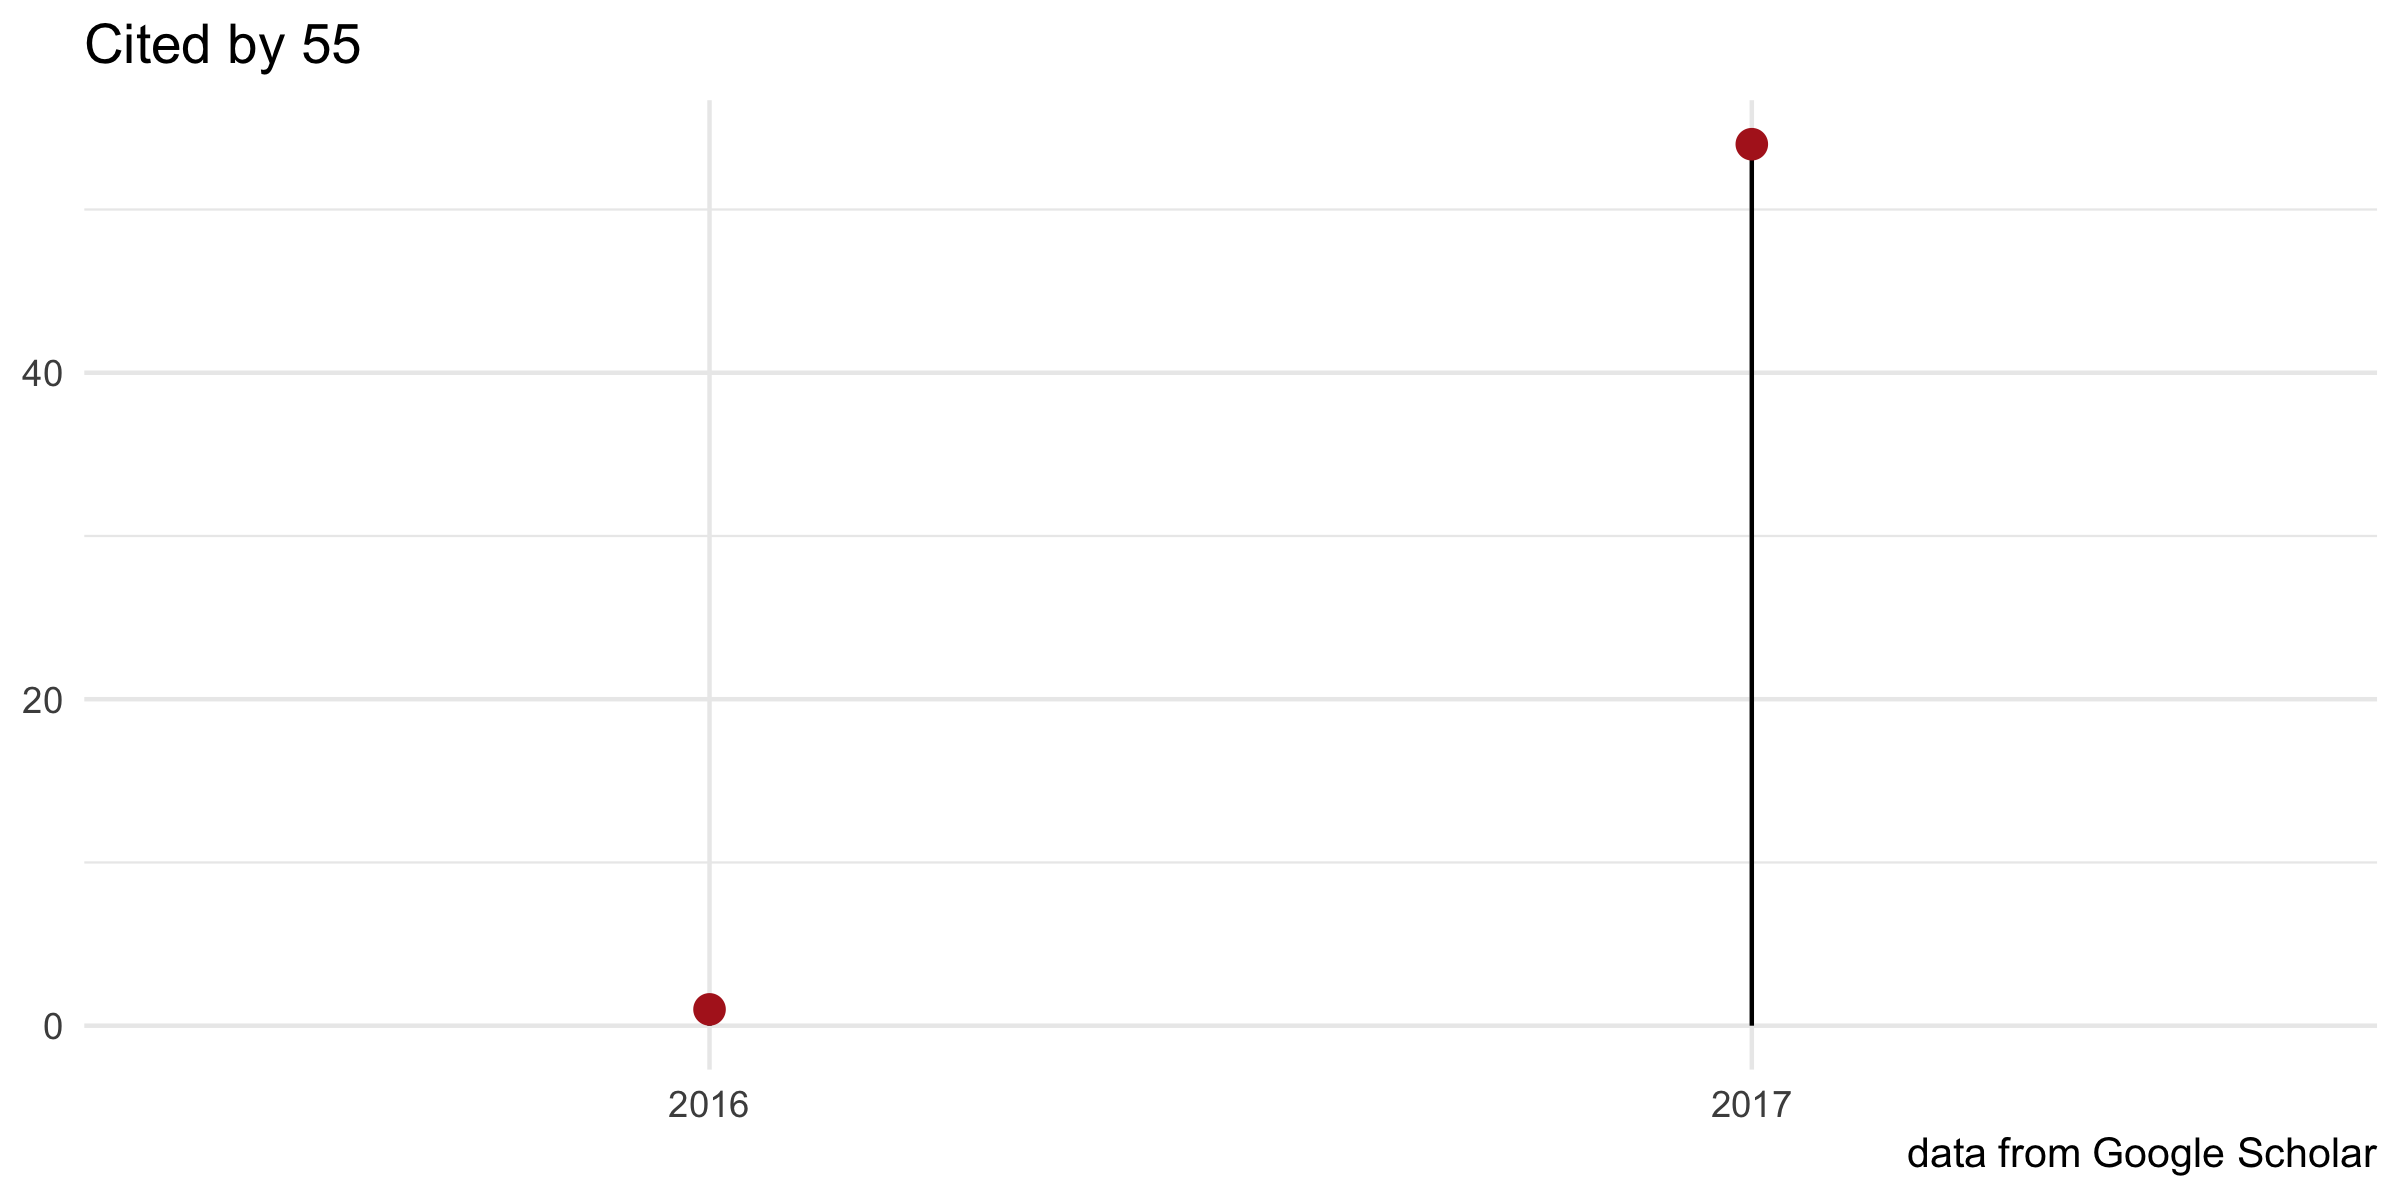
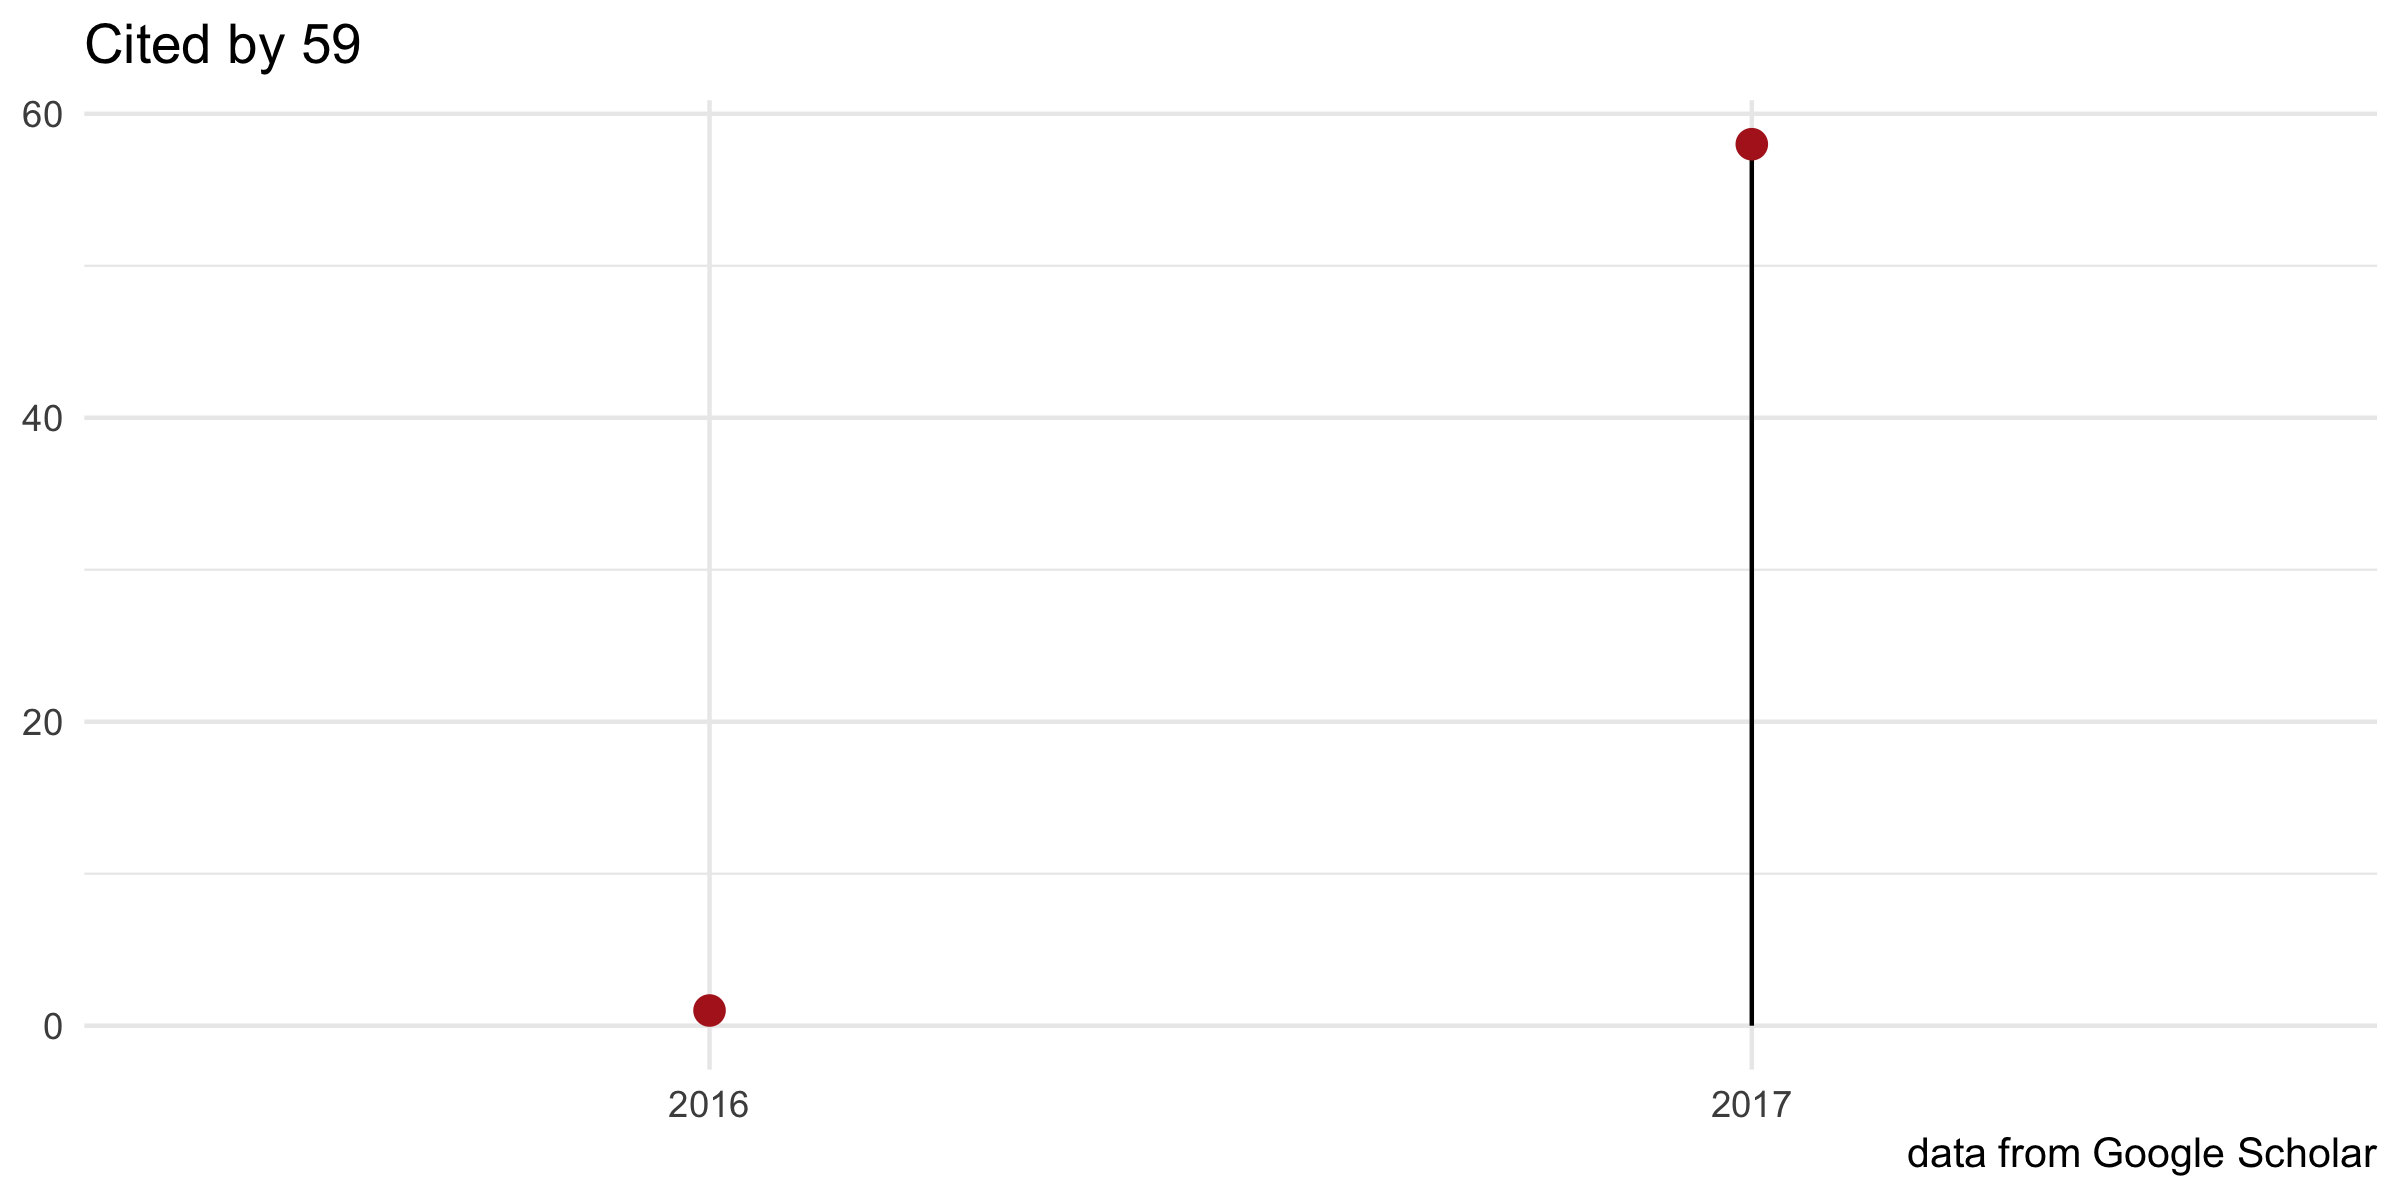
update vignette

diff --git a/README.md b/README.md
@@ -4,9 +4,9 @@ ggtree: an R package for visualization and annotation of phylogenetic trees with
 
 <img src="https://raw.githubusercontent.com/Bioconductor/BiocStickers/master/ggtree/ggtree.png" height="200" align="right" />
 
-[![releaseVersion](https://img.shields.io/badge/release%20version-1.10.0-green.svg?style=flat)](https://bioconductor.org/packages/ggtree) [![develVersion](https://img.shields.io/badge/devel%20version-1.11.3-green.svg?style=flat)](https://github.com/guangchuangyu/ggtree) [![Bioc](http://www.bioconductor.org/shields/years-in-bioc/ggtree.svg)](https://www.bioconductor.org/packages/devel/bioc/html/ggtree.html#since) [![total](https://img.shields.io/badge/downloads-22348/total-blue.svg?style=flat)](https://bioconductor.org/packages/stats/bioc/ggtree) [![month](https://img.shields.io/badge/downloads-1218/month-blue.svg?style=flat)](https://bioconductor.org/packages/stats/bioc/ggtree)
+[![releaseVersion](https://img.shields.io/badge/release%20version-1.10.0-green.svg?style=flat)](https://bioconductor.org/packages/ggtree) [![develVersion](https://img.shields.io/badge/devel%20version-1.11.3-green.svg?style=flat)](https://github.com/guangchuangyu/ggtree) [![Bioc](http://www.bioconductor.org/shields/years-in-bioc/ggtree.svg)](https://www.bioconductor.org/packages/devel/bioc/html/ggtree.html#since) [![total](https://img.shields.io/badge/downloads-22621/total-blue.svg?style=flat)](https://bioconductor.org/packages/stats/bioc/ggtree) [![month](https://img.shields.io/badge/downloads-1218/month-blue.svg?style=flat)](https://bioconductor.org/packages/stats/bioc/ggtree)
 
-[![Project Status: Active - The project has reached a stable, usable state and is being actively developed.](http://www.repostatus.org/badges/latest/active.svg)](http://www.repostatus.org/#active) [![codecov](https://codecov.io/gh/GuangchuangYu/ggtree/branch/master/graph/badge.svg)](https://codecov.io/gh/GuangchuangYu/ggtree) [![Last-changedate](https://img.shields.io/badge/last%20change-2017--12--15-green.svg)](https://github.com/GuangchuangYu/ggtree/commits/master) [![GitHub forks](https://img.shields.io/github/forks/GuangchuangYu/ggtree.svg)](https://github.com/GuangchuangYu/ggtree/network) [![GitHub stars](https://img.shields.io/github/stars/GuangchuangYu/ggtree.svg)](https://github.com/GuangchuangYu/ggtree/stargazers) [![Awesome](https://cdn.rawgit.com/sindresorhus/awesome/d7305f38d29fed78fa85652e3a63e154dd8e8829/media/badge.svg)](https://awesome-r.com/#awesome-r-graphic-displays)
+[![Project Status: Active - The project has reached a stable, usable state and is being actively developed.](http://www.repostatus.org/badges/latest/active.svg)](http://www.repostatus.org/#active) [![codecov](https://codecov.io/gh/GuangchuangYu/ggtree/branch/master/graph/badge.svg)](https://codecov.io/gh/GuangchuangYu/ggtree) [![Last-changedate](https://img.shields.io/badge/last%20change-2017--12--21-green.svg)](https://github.com/GuangchuangYu/ggtree/commits/master) [![GitHub forks](https://img.shields.io/github/forks/GuangchuangYu/ggtree.svg)](https://github.com/GuangchuangYu/ggtree/network) [![GitHub stars](https://img.shields.io/github/stars/GuangchuangYu/ggtree.svg)](https://github.com/GuangchuangYu/ggtree/stargazers) [![Awesome](https://cdn.rawgit.com/sindresorhus/awesome/d7305f38d29fed78fa85652e3a63e154dd8e8829/media/badge.svg)](https://awesome-r.com/#awesome-r-graphic-displays)
 
 [![platform](http://www.bioconductor.org/shields/availability/devel/ggtree.svg)](https://www.bioconductor.org/packages/devel/bioc/html/ggtree.html#archives) [![Build Status](http://www.bioconductor.org/shields/build/devel/bioc/ggtree.svg)](https://bioconductor.org/checkResults/devel/bioc-LATEST/ggtree/) [![Linux/Mac Travis Build Status](https://img.shields.io/travis/GuangchuangYu/ggtree/master.svg?label=Mac%20OSX%20%26%20Linux)](https://travis-ci.org/GuangchuangYu/ggtree) [![AppVeyor Build Status](https://img.shields.io/appveyor/ci/Guangchuangyu/ggtree/master.svg?label=Windows)](https://ci.appveyor.com/project/GuangchuangYu/ggtree) [![Backers on Open Collective](https://opencollective.com/ggtree/backers/badge.svg)](#backers) [![Sponsors on Open Collective](https://opencollective.com/ggtree/sponsors/badge.svg)](#sponsors)
 
@@ -27,7 +27,7 @@ Please cite the following article when using `ggtree`:
 
 **G Yu**, DK Smith, H Zhu, Y Guan, TTY Lam<sup>\*</sup>. ggtree: an R package for visualization and annotation of phylogenetic trees with their covariates and other associated data. ***Methods in Ecology and Evolution***. 2017, 8(1):28-36.
 
-[![doi](https://img.shields.io/badge/doi-10.1111/2041--210X.12628-green.svg?style=flat)](http://dx.doi.org/10.1111/2041-210X.12628) [![Altmetric](https://img.shields.io/badge/Altmetric-325-green.svg?style=flat)](https://www.altmetric.com/details/10533079) [![citation](https://img.shields.io/badge/cited%20by-55-green.svg?style=flat)](https://scholar.google.com.hk/scholar?oi=bibs&hl=en&cites=7268358477862164627)
+[![doi](https://img.shields.io/badge/doi-10.1111/2041--210X.12628-green.svg?style=flat)](http://dx.doi.org/10.1111/2041-210X.12628) [![Altmetric](https://img.shields.io/badge/Altmetric-325-green.svg?style=flat)](https://www.altmetric.com/details/10533079) [![citation](https://img.shields.io/badge/cited%20by-59-green.svg?style=flat)](https://scholar.google.com.hk/scholar?oi=bibs&hl=en&cites=7268358477862164627)
 
 ------------------------------------------------------------------------
 
@@ -37,7 +37,7 @@ Please cite the following article when using `ggtree`:
 
 ### Download stats
 
-[![download](http://www.bioconductor.org/shields/downloads/ggtree.svg)](https://bioconductor.org/packages/stats/bioc/ggtree) [![total](https://img.shields.io/badge/downloads-22348/total-blue.svg?style=flat)](https://bioconductor.org/packages/stats/bioc/ggtree) [![month](https://img.shields.io/badge/downloads-1218/month-blue.svg?style=flat)](https://bioconductor.org/packages/stats/bioc/ggtree)
+[![download](http://www.bioconductor.org/shields/downloads/ggtree.svg)](https://bioconductor.org/packages/stats/bioc/ggtree) [![total](https://img.shields.io/badge/downloads-22621/total-blue.svg?style=flat)](https://bioconductor.org/packages/stats/bioc/ggtree) [![month](https://img.shields.io/badge/downloads-1218/month-blue.svg?style=flat)](https://bioconductor.org/packages/stats/bioc/ggtree)
 
 <img src="docs/images/dlstats.png" width="890"/>
 
